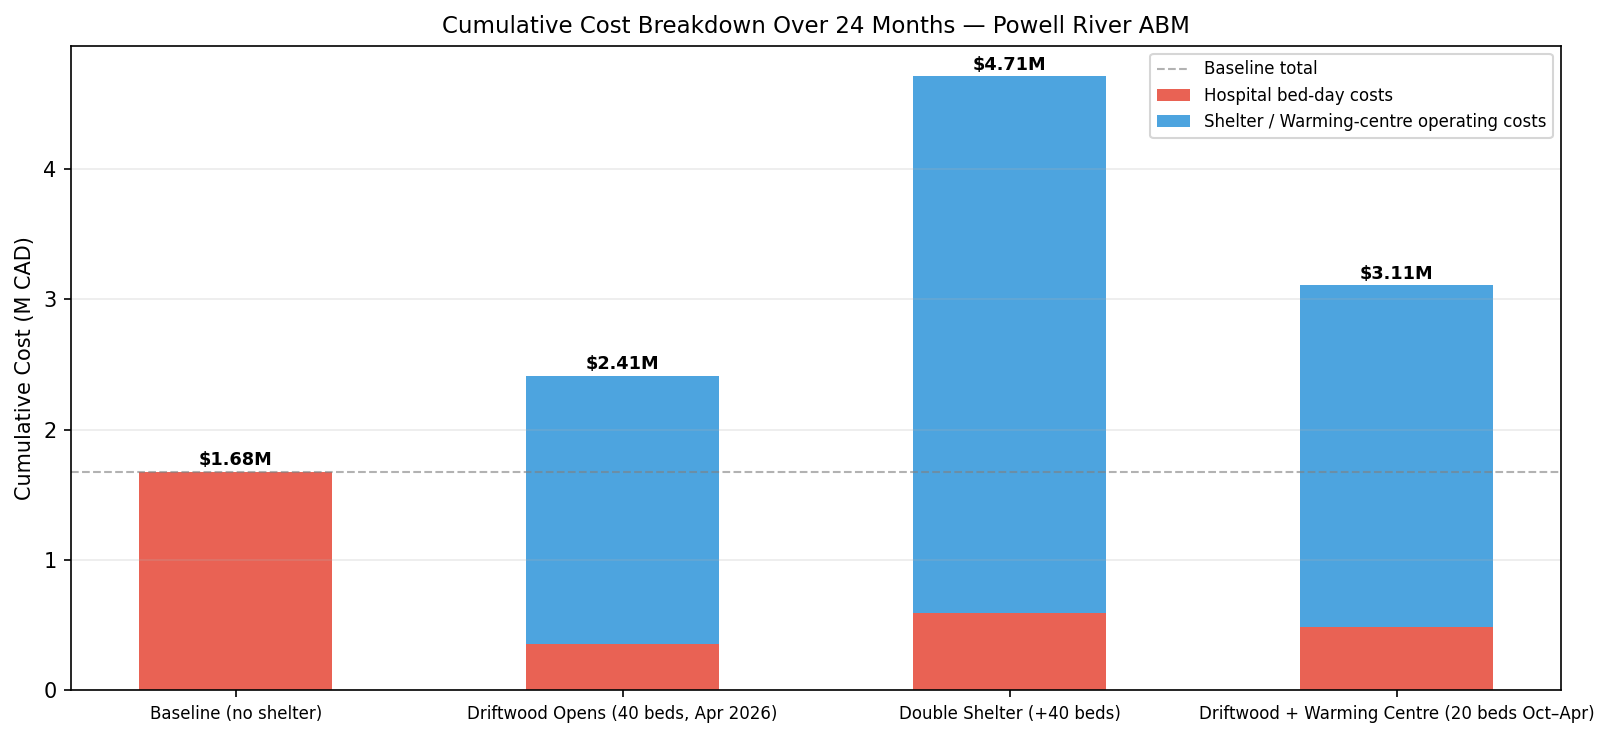
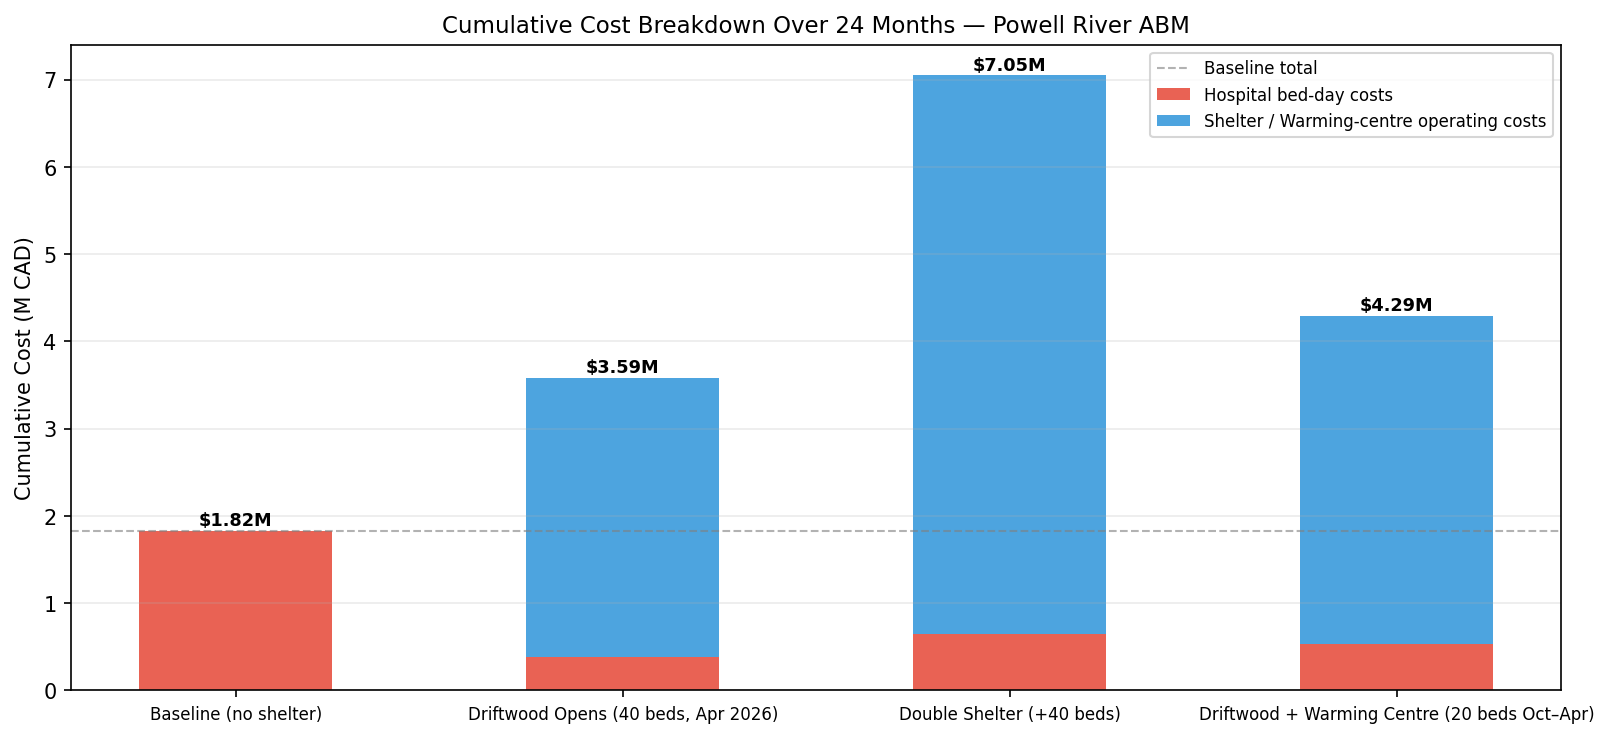
g

diff --git a/main.py b/main.py
@@ -10,7 +10,7 @@ Real-world context
                  → zero shelter beds from March 2025 onward
   Sim start    : April 2026
   Driftwood    : 40-bed shelter at 7104 Barnet St opens April 2026 (month 1)
-  Population   : 80 homeless individuals (2023 PiT count)
+  Population   : ~126 homeless individuals (2023 PiT count)
 
 Scenarios
 ---------
@@ -83,23 +83,35 @@ WINTER_MONTHS               = {11, 12, 1, 2, 3}
 SEASONAL_ADMISSION_BOOST    = 0.05   # extra admission prob in winter months
 
 # ── Demographics ──────────────────────────────────────────────────────────────
+# BC Coroners data: 79% male, skewed 30-49
 # ← SWAP with real age/gender from qathet hospital data
 GENDER_PROBS = {"Male": 0.70, "Female": 0.26, "Other": 0.04}
 AGE_GROUPS   = ["18-29", "30-44", "45-59", "60+"]
 AGE_PROBS    = [0.20,    0.35,    0.30,    0.15]
 
 # ── Cost parameters ───────────────────────────────────────────────────────────
-COST_HOSPITAL_BED_DAY           = 1_500   # CAD; BC acute-care bed-day (CIHI estimate)
+# qathet General Hospital — 42 beds total: 3 ICU + 39 non-ICU
+HOSPITAL_ICU_BEDS               = 3
+HOSPITAL_NON_ICU_BEDS           = 39      # 42 - 3
+COST_ICU_BED_DAY_LOW            = 7_000   # CAD; ICU bed-day lower bound
+COST_ICU_BED_DAY_HIGH           = 10_000  # CAD; ICU bed-day upper bound
+COST_NON_ICU_BED_DAY            = 1_100   # CAD; non-ICU acute bed-day
 
-# Driftwood / year-round shelter (based on Sechelt RainCity ~$900k/yr for 35 beds)
-# Scaled to 40 beds → ~$1.03M/yr → ~$85,700/month total
+# Weighted average bed-day cost used in simulation:
+# (3 ICU × midpoint $8,500 + 39 non-ICU × $1,100) / 42  ≈ $1,624/day blended
+_ICU_MID                        = (COST_ICU_BED_DAY_LOW + COST_ICU_BED_DAY_HIGH) / 2
+COST_HOSPITAL_BED_DAY           = round(
+    (HOSPITAL_ICU_BEDS * _ICU_MID + HOSPITAL_NON_ICU_BEDS * COST_NON_ICU_BED_DAY)
+    / (HOSPITAL_ICU_BEDS + HOSPITAL_NON_ICU_BEDS)
+)
+
+# Driftwood shelter — confirmed $1.6M/yr operating cost
 DRIFTWOOD_CAPACITY              = 40      # beds
-DRIFTWOOD_FIXED_MONTHLY         = 85_700  # CAD; total operating cost/month
-                                          # ← SWAP with actual BC Housing contract value
+DRIFTWOOD_FIXED_MONTHLY         = 133_333 # CAD; $1,600,000 / 12
 
 # Additional 40-bed shelter (same cost structure as Driftwood)
 ADDITIONAL_SHELTER_CAPACITY     = 40
-ADDITIONAL_SHELTER_FIXED_MONTHLY = 85_700
+ADDITIONAL_SHELTER_FIXED_MONTHLY = 133_333
 
 # Warming centre (Oct–Apr; 20 beds; lower cost than year-round shelter)
 WARMING_CENTRE_CAPACITY         = 20
@@ -472,6 +484,127 @@ def print_summary(scenarios: dict):
     print("=" * w + "\n")
 
 
+
+# =============================================================================
+# BREAK-EVEN ANALYSIS
+# =============================================================================
+
+def breakeven_analysis(scenarios: dict, months: int = SIM_MONTHS) -> dict:
+    """
+    For each non-baseline scenario, find the month at which cumulative hospital
+    savings exceed cumulative shelter operating costs.
+
+    Break-even when:
+        sum(baseline_hospital_cost[0:t]) - sum(scenario_hospital_cost[0:t])
+        >= sum(scenario_shelter_cost[0:t])
+    """
+    baseline      = list(scenarios.values())[0]
+    baseline_hosp = np.array(baseline["monthly_cost_hospital"])
+    results       = {}
+
+    for name, res in list(scenarios.items())[1:]:   # skip Baseline
+        scen_hosp    = np.array(res["monthly_cost_hospital"])
+        scen_shelter = np.array(res["monthly_cost_shelter"])
+        cum_savings  = np.cumsum(baseline_hosp - scen_hosp)
+        cum_shelter  = np.cumsum(scen_shelter)
+        net          = cum_savings - cum_shelter
+
+        breakeven_month = None
+        for t, n in enumerate(net, start=1):
+            if n >= 0:
+                breakeven_month = t
+                break
+
+        results[name] = dict(
+            breakeven_month  = breakeven_month,
+            cum_savings      = cum_savings,
+            cum_shelter_cost = cum_shelter,
+            net              = net,
+        )
+    return results
+
+
+def print_breakeven(scenarios: dict):
+    """Print break-even table to console."""
+    month_names = ["Jan","Feb","Mar","Apr","May","Jun",
+                   "Jul","Aug","Sep","Oct","Nov","Dec"]
+    be = breakeven_analysis(scenarios)
+
+    print("\n" + "=" * 72)
+    print("BREAK-EVEN ANALYSIS")
+    print("(Month when cumulative hospital savings exceed shelter operating costs)")
+    print("=" * 72)
+    print(f"{'Scenario':<40} {'Break-even':>12} {'Calendar date':>16} {'Net saving at end':>18}")
+    print("-" * 72)
+
+    for name, data in be.items():
+        label   = name.replace("\n", " ")
+        bm      = data["breakeven_month"]
+        net_end = data["net"][-1]
+
+        if bm is not None:
+            cal_idx = ((SIM_START_MONTH - 1 + bm - 1) % 12)
+            yr      = 26 + ((SIM_START_MONTH - 1 + bm - 1) // 12)
+            cal_str = f"{month_names[cal_idx]} 20{yr}"
+            bm_str  = f"Month {bm}"
+        else:
+            cal_str = "Beyond simulation window"
+            bm_str  = f"> {SIM_MONTHS} months"
+
+        net_str = f"${net_end/1e6:.3f}M" if net_end >= 0 else f"-${abs(net_end)/1e6:.3f}M"
+        print(f"{label:<40} {bm_str:>12} {cal_str:>16} {net_str:>18}")
+
+    print("=" * 72 + "\n")
+
+
+def plot_breakeven(scenarios: dict, months: int = SIM_MONTHS):
+    """
+    Line chart: cumulative net saving (hospital savings minus shelter costs).
+    X-axis crossing = break-even point.
+    """
+    be     = breakeven_analysis(scenarios, months)
+    labels = _month_labels(months)
+    x      = np.arange(1, months + 1)
+
+    fig, ax = plt.subplots(figsize=(13, 5))
+    ax.axhline(0, color="black", lw=1.8, ls="--", label="Break-even line (net = $0)")
+
+    for name, data in be.items():
+        c   = COLORS[name]
+        net = data["net"] / 1e6
+        ax.plot(x, net, color=c, lw=2.5, marker="o", ms=3.5,
+                label=name.replace("\n", " "))
+
+        bm = data["breakeven_month"]
+        if bm is not None:
+            ax.axvline(bm, color=c, lw=1.2, ls=":", alpha=0.7)
+            # Label above the line so they don't overlap
+            y_label = data["net"][min(bm, months - 1)] / 1e6
+            ax.annotate(
+                f"Month {bm}",
+                xy=(bm, 0),
+                xytext=(bm + 0.4, max(y_label * 0.4, 0.03)),
+                fontsize=7.5, color=c, fontweight="bold",
+                arrowprops=dict(arrowstyle="->", color=c, lw=1),
+            )
+
+    tick_every = 3
+    ax.set_xticks(x[::tick_every])
+    ax.set_xticklabels(labels[::tick_every], rotation=35, ha="right", fontsize=7.5)
+    ax.set_ylabel("Cumulative Net Saving vs Baseline (M CAD)\n"
+                  "[hospital savings  minus  shelter operating costs]")
+    ax.set_title(
+        "Break-Even Analysis — When Do Shelter Interventions Pay For Themselves?\n"
+        "Positive values = shelter has more than paid for itself through hospital savings",
+        fontsize=10,
+    )
+    ax.legend(fontsize=8)
+    ax.grid(alpha=0.25)
+    plt.tight_layout()
+    plt.savefig("outputs/powell_river_breakeven.png", dpi=150, bbox_inches="tight")
+    plt.show()
+    print("Saved: powell_river_breakeven.png")
+
 # =============================================================================
 # PLOTTING
 # =============================================================================
@@ -578,35 +711,86 @@ def plot_cost_breakdown(scenarios: dict, months: int = SIM_MONTHS):
 
 
 def plot_cost_per_night():
-    """Reference chart: cost per night by care setting."""
-    settings = ["Hospital\nAcute Bed", "Year-Round\nShelter Bed\n(Driftwood est.)",
-                "Warming\nCentre Bed"]
-    # Driftwood per-bed-night: $85,700/mo ÷ 30 days ÷ 40 beds ≈ $71/bed/night
+    """
+    Reference chart: cost per bed-night by care setting.
+
+    Hospital ICU is shown as TWO stacked bars (low $7k / high $10k).
+    Non-ICU and shelter/warming bars sit alongside for comparison.
+    """
     driftwood_per_bed_night = DRIFTWOOD_FIXED_MONTHLY / 30 / DRIFTWOOD_CAPACITY
     warming_per_bed_night   = WARMING_CENTRE_FIXED_MONTHLY / 30 / WARMING_CENTRE_CAPACITY
-    costs   = [COST_HOSPITAL_BED_DAY, driftwood_per_bed_night, warming_per_bed_night]
-    colours = ["#e74c3c", "#3498db", "#27ae60"]
 
-    fig, ax = plt.subplots(figsize=(8, 4))
-    bars = ax.bar(settings, costs, color=colours, width=0.45)
-    for bar, cost in zip(bars, costs):
+    # ── Bar positions ─────────────────────────────────────────────────────────
+    # 0: ICU low  |  1: ICU high  |  2: Non-ICU  |  3: Driftwood  |  4: Warming
+    labels  = [
+        f"ICU Bed\n($7,000/night)",
+        f"ICU Bed\n($10,000/night)",
+        f"Non-ICU Bed\n(${COST_NON_ICU_BED_DAY:,}/night)",
+        f"Driftwood Shelter\nBed (${driftwood_per_bed_night:,.0f}/night)",
+        f"Warming Centre\nBed (${warming_per_bed_night:,.0f}/night)",
+    ]
+    values  = [
+        COST_ICU_BED_DAY_LOW,
+        COST_ICU_BED_DAY_HIGH,
+        COST_NON_ICU_BED_DAY,
+        driftwood_per_bed_night,
+        warming_per_bed_night,
+    ]
+    colours = ["#c0392b", "#e74c3c", "#e67e22", "#3498db", "#27ae60"]
+    x       = np.arange(len(labels))
+    w       = 0.55
+
+    fig, ax = plt.subplots(figsize=(12, 5))
+
+    # Draw ICU bars as one group with a bracket
+    bars = ax.bar(x, values, width=w, color=colours, alpha=0.88, zorder=3)
+
+    # Annotate each bar
+    for bar, val in zip(bars, values):
         ax.text(bar.get_x() + bar.get_width() / 2,
-                bar.get_height() + 5,
-                f"${cost:,.0f}/night", ha='center', va='bottom',
-                fontsize=10, fontweight='bold')
+                bar.get_height() + 80,
+                f"${val:,.0f}", ha='center', va='bottom',
+                fontsize=9, fontweight='bold')
 
-    ratio_s = COST_HOSPITAL_BED_DAY / driftwood_per_bed_night
-    ratio_w = COST_HOSPITAL_BED_DAY / warming_per_bed_night
-    ax.text(0.97, 0.95,
-            f"Hospital is ~{ratio_s:.0f}× more costly than shelter\n"
-            f"Hospital is ~{ratio_w:.0f}× more costly than warming centre",
-            transform=ax.transAxes, ha='right', va='top', fontsize=9,
+    # Bracket linking the two ICU bars
+    y_bracket = COST_ICU_BED_DAY_HIGH * 1.08
+    ax.annotate("", xy=(x[1], y_bracket), xytext=(x[0], y_bracket),
+                arrowprops=dict(arrowstyle="<->", color="black", lw=1.5))
+    ax.text((x[0] + x[1]) / 2, y_bracket + 150,
+            "ICU range", ha='center', fontsize=8.5, color='black')
+
+    # Ratio callout box
+    ratio_icu_low_vs_shelter  = COST_ICU_BED_DAY_LOW  / driftwood_per_bed_night
+    ratio_icu_high_vs_shelter = COST_ICU_BED_DAY_HIGH / driftwood_per_bed_night
+    ratio_non_icu_vs_shelter  = COST_NON_ICU_BED_DAY  / driftwood_per_bed_night
+    ax.text(0.98, 0.97,
+            f"ICU is {ratio_icu_low_vs_shelter:.0f}–{ratio_icu_high_vs_shelter:.0f}× "
+            f"more costly than Driftwood shelter\n"
+            f"Non-ICU is {ratio_non_icu_vs_shelter:.0f}× more costly than Driftwood shelter",
+            transform=ax.transAxes, ha='right', va='top', fontsize=8.5,
             bbox=dict(boxstyle='round', facecolor='#fffbcc', alpha=0.9))
 
-    ax.set_ylim(0, max(costs) * 1.3)
+    ax.set_xticks(x)
+    ax.set_xticklabels(labels, fontsize=8.5)
     ax.set_ylabel("CAD per bed-night")
-    ax.set_title("Cost per Bed-Night by Care Setting — Powell River", fontsize=11)
-    ax.grid(axis='y', alpha=0.25)
+    ax.set_ylim(0, COST_ICU_BED_DAY_HIGH * 1.30)
+    ax.set_title(
+        "Cost per Bed-Night by Care Setting — qathet General Hospital & Powell River Shelter\n"
+        "(3 ICU beds + 39 non-ICU beds; Driftwood $1.6M/yr ÷ 40 beds ÷ 365 days)",
+        fontsize=10
+    )
+    ax.grid(axis='y', alpha=0.25, zorder=0)
+
+    # Legend patches
+    from matplotlib.patches import Patch
+    legend_elements = [
+        Patch(facecolor="#c0392b", alpha=0.88, label="ICU — low estimate ($7,000)"),
+        Patch(facecolor="#e74c3c", alpha=0.88, label="ICU — high estimate ($10,000)"),
+        Patch(facecolor="#e67e22", alpha=0.88, label=f"Non-ICU (${COST_NON_ICU_BED_DAY:,})"),
+        Patch(facecolor="#3498db", alpha=0.88, label="Driftwood shelter bed"),
+        Patch(facecolor="#27ae60", alpha=0.88, label="Warming centre bed"),
+    ]
+    ax.legend(handles=legend_elements, fontsize=8, loc='upper left')
 
     plt.tight_layout()
     plt.savefig("outputs/powell_river_cost_per_night.png", dpi=150, bbox_inches='tight')
@@ -657,8 +841,11 @@ if __name__ == "__main__":
     print("=" * 60)
     print("Powell River Homeless ED Utilization ABM")
     print(f"  Hospital capacity : {HOSPITAL_CAPACITY} beds (qathet General)")
-    print(f"  Start             : April 2026")
-    print(f"  Duration          : {SIM_MONTHS} months")
+    print(f"    ICU beds        : {HOSPITAL_ICU_BEDS} @ ${COST_ICU_BED_DAY_LOW:,}–${COST_ICU_BED_DAY_HIGH:,}/day")
+    print(f"    Non-ICU beds    : {HOSPITAL_NON_ICU_BEDS} @ ${COST_NON_ICU_BED_DAY:,}/day")
+    print(f"    Blended cost    : ${COST_HOSPITAL_BED_DAY:,}/day (used in simulation)")
+    print(f"  Driftwood shelter : $1.6M/yr → ${DRIFTWOOD_FIXED_MONTHLY:,}/month")
+    print(f"  Start             : April 2026  |  Duration: {SIM_MONTHS} months")
     print(f"  Initial population: {INITIAL_POPULATION}")
     print(f"  Admission prob    : {ADMISSION_PROB:.0%}  ← SWAP with Z59/(NFA+Z59)")
     print(f"  LOS mean          : {LOS_MEAN_DAYS} days  ← SWAP with real data")
@@ -667,7 +854,9 @@ if __name__ == "__main__":
     scenarios = run_all_scenarios(months=SIM_MONTHS, seed=RNG_SEED)
 
     print_summary(scenarios)
+    print_breakeven(scenarios)
     plot_cost_per_night()
     plot_main(scenarios, months=SIM_MONTHS)
     plot_cost_breakdown(scenarios, months=SIM_MONTHS)
+    plot_breakeven(scenarios, months=SIM_MONTHS)
     plot_demographics(scenarios)
